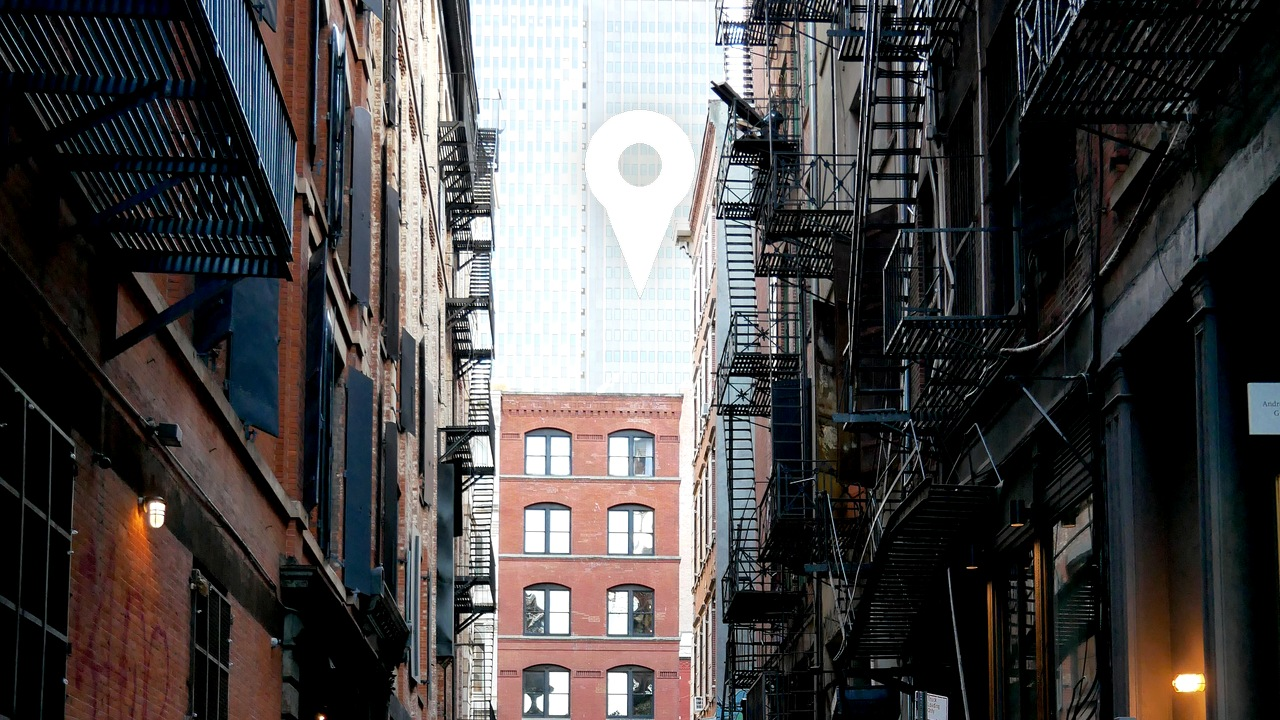
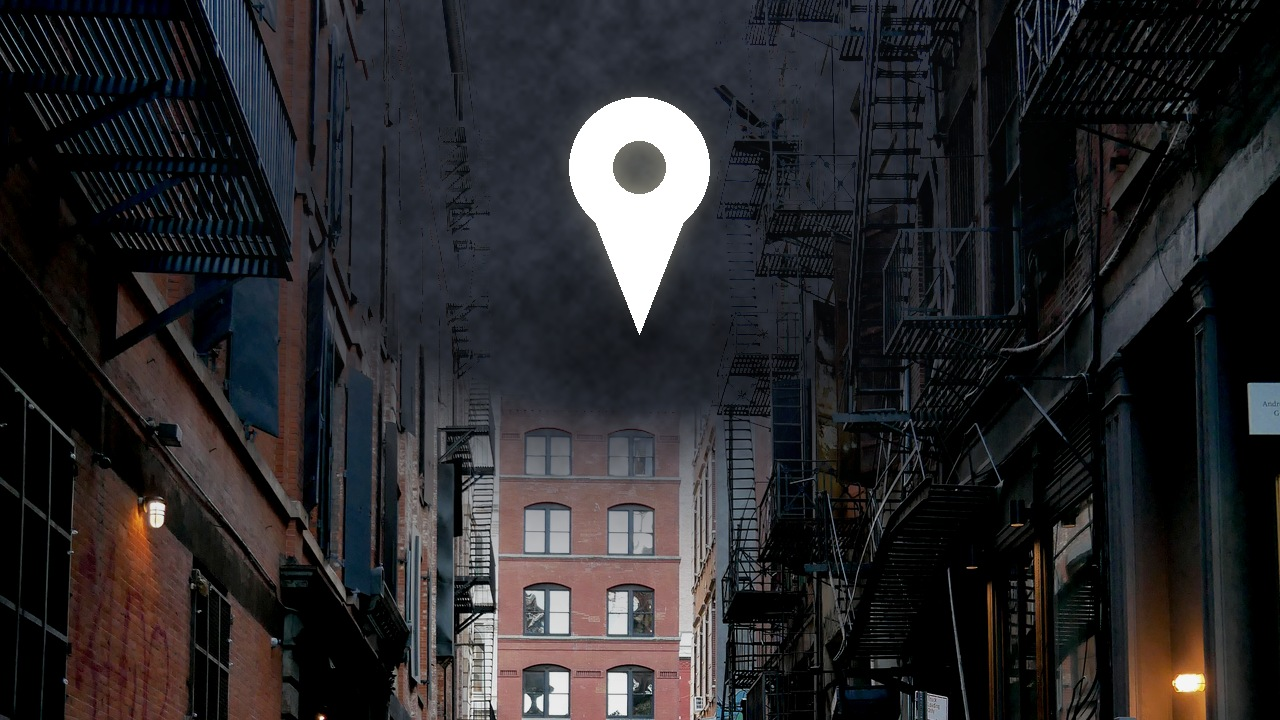
Use darkened Cortlandt Alley photo as location post cover
Keep the real alley photo and map pin; replace the blown-out sky
behind the pin with a dark storm texture so the pin reads clearly.

diff --git a/blog/how-to-request-location-permission-and-read-gps-coordinates-on-ios.md b/blog/how-to-request-location-permission-and-read-gps-coordinates-on-ios.md
@@ -161,4 +161,4 @@ If the user denied access, `authorizationStatus` stays `.denied` until they chan
 
 We’ve replaced hard-coded Brooklyn coordinates with a When In Use Core Location flow: a privacy usage string, a `CLLocationManager` that requests authorization, a one-shot `requestLocation()` wrapped in `async`, and the resulting `Double` latitude and longitude passed into `CurrentWeatherQuery`. The bare-bones client from [How to Build a Bare-Bones Async JSON Client in Swift](/how-to-build-a-bare-bones-async-json-client-in-swift) and the typed query from [How to Type OpenWeather Query Items in a Swift API Client](/how-to-type-openweather-query-items-in-swift) stay as they are—only the source of `lat` and `lon` moved from a literal to the device. From here you can cache the last good coordinate for offline launches, or let the user pin a city when they decline the prompt, without teaching the API client anything about GPS.
 
-*Cover image generated for this post.*
+*Cover: [Cortlandt Alley](https://commons.wikimedia.org/wiki/File:Cortlandt_Alley.jpg) by [QuercusJuglans](https://commons.wikimedia.org/wiki/User:QuercusJuglans), [CC BY-SA 4.0](https://creativecommons.org/licenses/by-sa/4.0/); map pin added.*
